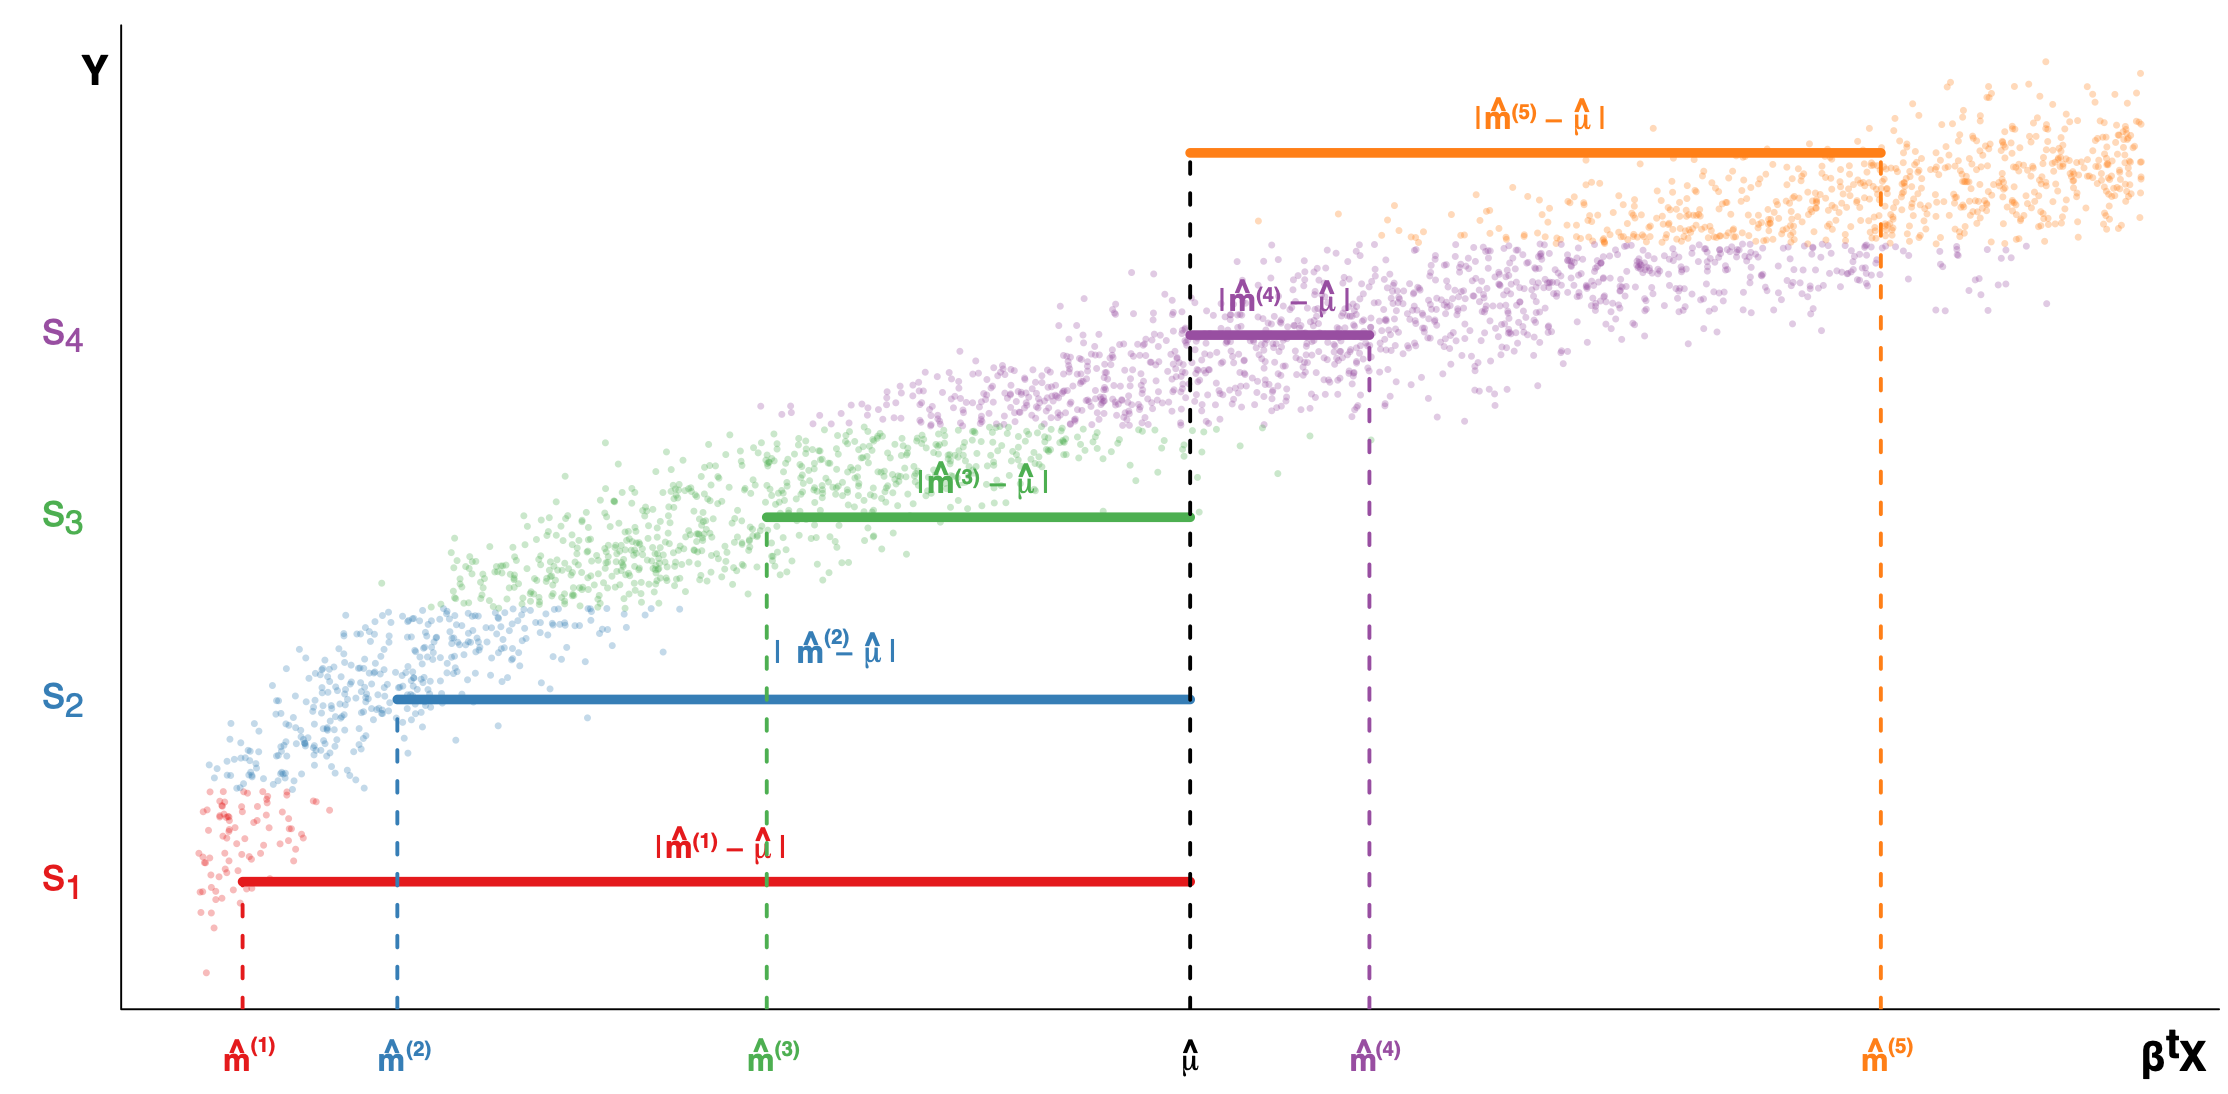
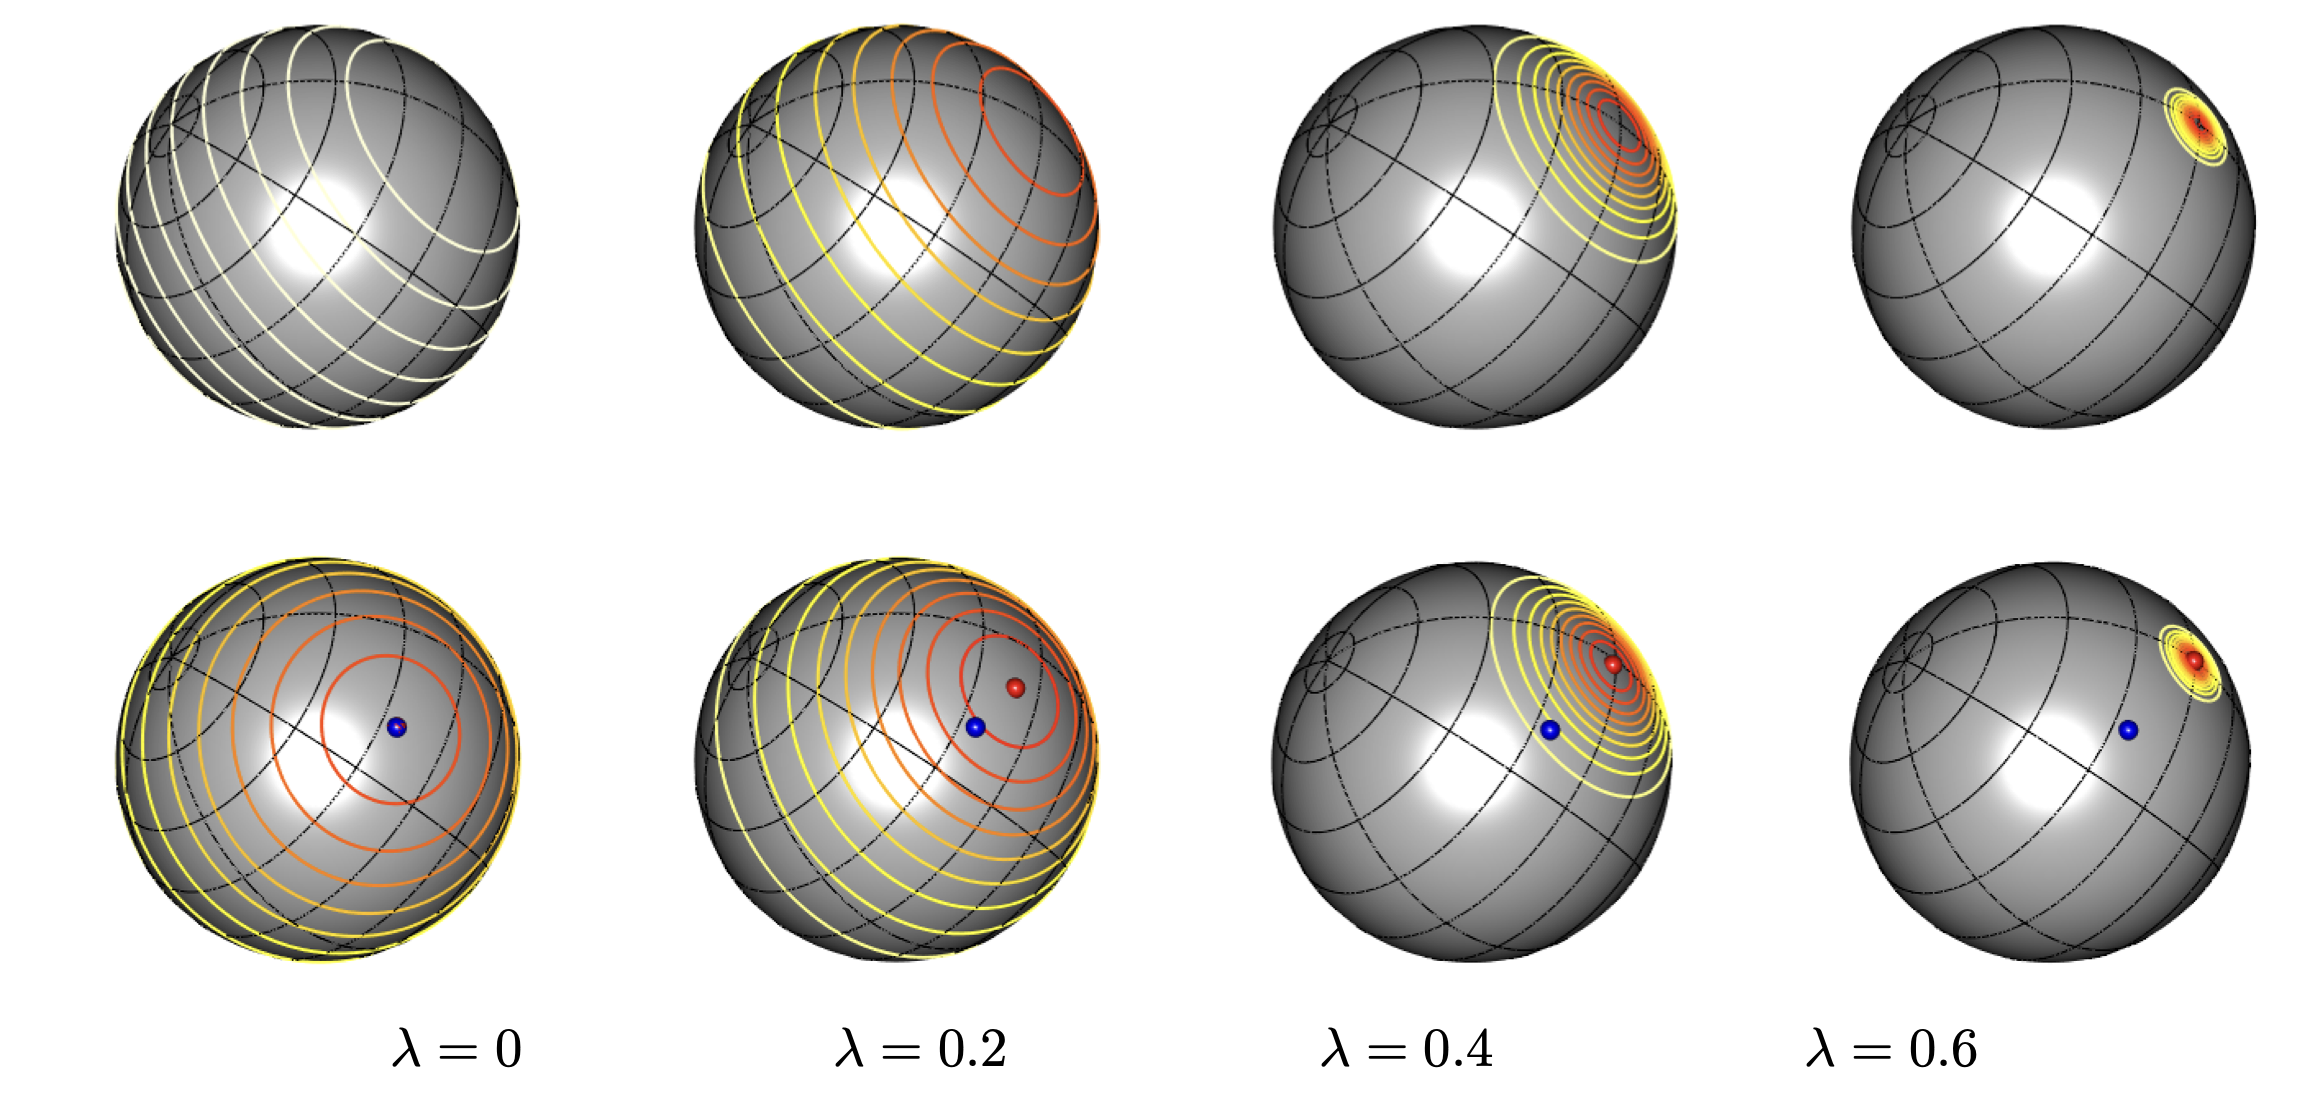
SEPaLS

diff --git a/content/publication/biometrikaARXIV/index.md b/content/publication/biometrikaARXIV/index.md
@@ -1,10 +1,10 @@
 +++
-title = "Advanced topics in Sliced Inverse Regression"
-date = 2021-01-14T00:00:00
+title = "Shrinkage for Extreme Partial Least Squares"
+date = 2023-10-20T00:00:00
 draft = false
 
 # Authors. Comma separated list, e.g. `["Bob Smith", "David Jones"]`.
-authors = ["S Girard", "H Lorenzo", "J Saracco"]
+authors = ["J Arbel",S Girard", "H Lorenzo"]
 
 # Publication type.
 # Legend:
@@ -18,11 +18,11 @@ authors = ["S Girard", "H Lorenzo", "J Saracco"]
 publication_types = ["3"]
 
 # Publication name and optional abbreviated version.
-publication = "to appear in Journal of Multivariate Analysis"
-# publication_short = "In arXiv:1901.04380"
+# publication = "to appear in Journal of Multivariate Analysis"
+publication_short = "In hal-04251783"
 
 # Abstract and optional shortened version.
-abstract = "Since its introduction in the early 90’s, the Sliced Inverse Regression (SIR) methodology has evolved adapting to increasingly complex data sets in contexts combining linear dimension reduction with non linear regression. The assumption of dependence of the response variable with respect to only a few linear combinations of the covariates makes it appealing for many computational and real data application aspects. This work proposes an overview of the most active research directions in SIR modeling from multivariate regression models to regularization and variable selection."
+abstract = "This research focuses on dimension-reduction techniques for modeling conditional extreme values. Specifically, we investigate the idea that extreme values of a response variable can be explained by nonlinear functions derived from linear projections of an input random vector. In this context, the estimation of projection directions is examined, as approached by the Extreme Partial Least Squares (EPLS) method--an adaptation of the original Partial Least Squares (PLS) method tailored to the extreme-value framework. Further, a novel interpretation of EPLS directions as maximum likelihood estimators is introduced, utilizing the von Mises-Fisher distribution applied to hyperballs. The dimension reduction process is enhanced through the Bayesian paradigm, enabling the incorporation of prior information into the projection direction estimation. The maximum a posteriori estimator is derived in two specific cases, elucidating it as a regularization or shrinkage of the EPLS estimator. We also establish its asymptotic behavior as the sample size approaches infinity. A simulation data study is conducted in order to assess the practical utility of our proposed method. This clearly demonstrates its effectiveness even in moderate data problems within high-dimensional settings. Furthermore, we provide an illustrative example of the method's applicability using French farm income data, highlighting its efficacy in real-world scenarios."
 
 # Is this a selected publication? (true/false)
 selected = true
@@ -40,8 +40,8 @@ selected = true
 tags = []
 
 # Links (optional).
-url_pdf = "https://hal.inria.fr/hal-03367798/document"
-url_source = "https://hal.inria.fr/hal-03367798/document"
+url_pdf = "https://hal.science/hal-04251783/file/SEPALS_Archive.pdf"
+url_source = "https://hal.science/hal-04251783"
 
 # Custom links (optional).
 #   Uncomment line below to enable. For multiple links, use the form `[{...}, {...}, {...}]`.
@@ -64,4 +64,4 @@ math = true
   focal_point = ""
 +++
 
-Since its introduction in the early 90’s, the Sliced Inverse Regression (SIR) methodology has evolved adapting to increasingly complex data sets in contexts combining linear dimension reduction with non linear regression. The assumption of dependence of the response variable with respect to only a few linear combinations of the covariates makes it appealing for many computational and real data application aspects. This work proposes an overview of the most active research directions in SIR modeling from multivariate regression models to regularization and variable selection.
+This research focuses on dimension-reduction techniques for modeling conditional extreme values. Specifically, we investigate the idea that extreme values of a response variable can be explained by nonlinear functions derived from linear projections of an input random vector. In this context, the estimation of projection directions is examined, as approached by the Extreme Partial Least Squares (EPLS) method--an adaptation of the original Partial Least Squares (PLS) method tailored to the extreme-value framework.
